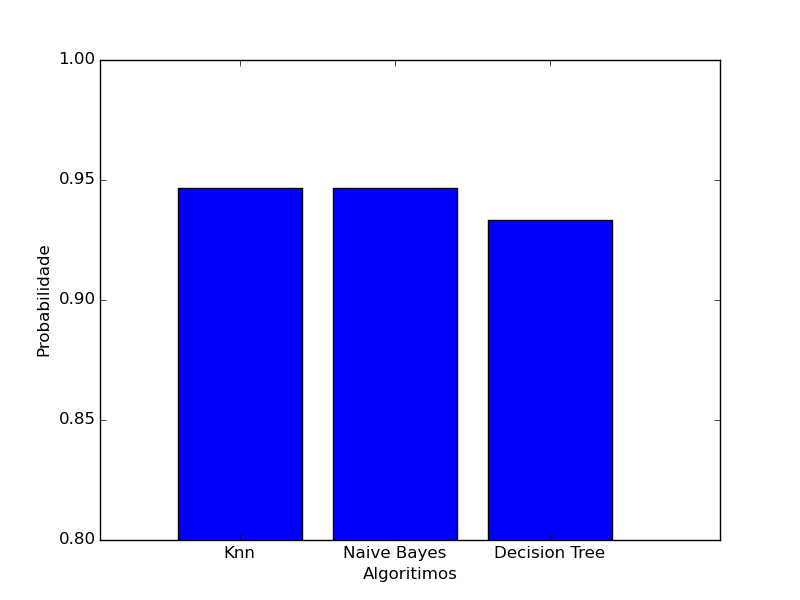
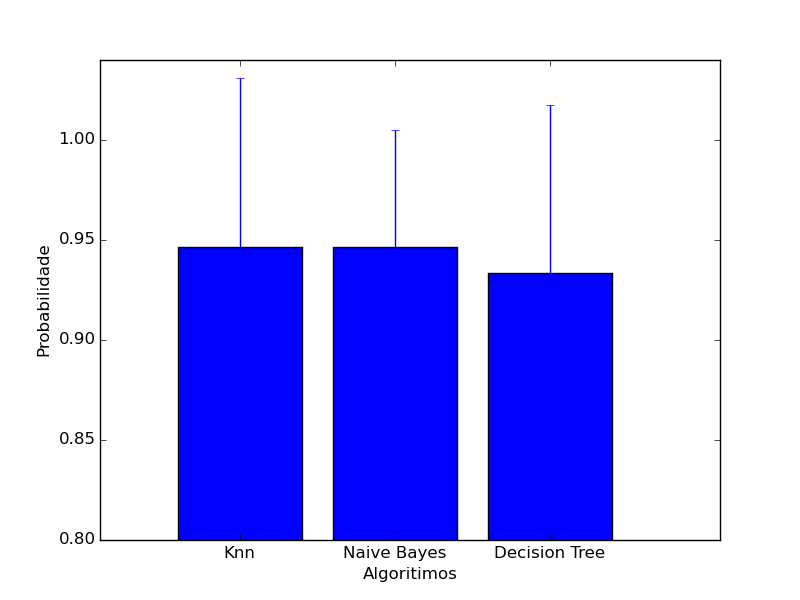
Desvios

diff --git a/iris/trabalho.py b/iris/trabalho.py
@@ -21,11 +21,14 @@ classes = iris.iloc[:,4]
 
 #usando k-fold
 kf = cross_validation.KFold(len(classes), n_folds=10)
-acuracias=[]
+acuracias_media=[]
+acuracias_std=[]
 
 #classificador knn
-knn_acu_train=[]
-knn_acu_test=[]
+knn_acu_train_media=[]
+knn_acu_train_std=[]
+knn_acu_test_media=[]
+knn_acu_test_std=[]
 ks=[3,5,7,9,11]
 
 for i in ks:
@@ -38,20 +41,23 @@ for i in ks:
     knn.fit(valores.iloc[treino_ind,:],classes.iloc[treino_ind])
     teste.append(accuracy_score(classes.iloc[teste_ind], knn.predict(valores.iloc[teste_ind,:])))
     treino.append(accuracy_score(classes.iloc[treino_ind], knn.predict(valores.iloc[treino_ind,:])))
-  knn_acu_test.append(np.mean(teste))
-  knn_acu_train.append(np.mean(treino))
+  knn_acu_test_media.append(np.mean(teste))
+  knn_acu_train_media.append(np.mean(treino))
+  knn_acu_test_std.append(np.std(teste))
+  knn_acu_train_std.append(np.std(treino))
 
 plt.clf()
-plt.scatter(ks, knn_acu_test,c="red")
-plt.plot(ks, knn_acu_test,c="red")
-plt.scatter(ks, knn_acu_train,c="blue")
-plt.plot(ks, knn_acu_train,c="blue")
+plt.scatter(ks, knn_acu_test_media,c="red")
+plt.plot(ks, knn_acu_test_media,c="red")
+plt.scatter(ks, knn_acu_train_media,c="blue")
+plt.plot(ks, knn_acu_train_media,c="blue")
 plt.ylabel('Acuracia')
 plt.xlabel('Numero de vizinhos mais proximos')
 plt.savefig('knn.png')
 
-acuracias.append(max(knn_acu_test))
-k_usado=ks[knn_acu_test.index(max(knn_acu_test))]
+acuracias_media.append(max(knn_acu_test_media))
+acuracias_std.append(max(knn_acu_test_std))
+k_usado=ks[knn_acu_test_media.index(max(knn_acu_test_media))]
 
 #classificador naive bayes
 teste=[]
@@ -62,7 +68,8 @@ for treino_ind, teste_ind in kf:
   gnb.fit(valores.iloc[treino_ind,:],classes.iloc[treino_ind])
   teste.append(accuracy_score(classes.iloc[teste_ind], gnb.predict(valores.iloc[teste_ind,:])))
 
-acuracias.append(np.mean(teste))
+acuracias_media.append(np.mean(teste))
+acuracias_std.append(np.std(teste))
 
 #classificador Decision Tree
 teste=[]
@@ -79,12 +86,12 @@ tree.export_graphviz(clf, out_file='arvore.dot')
 os.system("dot -Tps arvore.dot -o arvore.eps")
 os.system("rm arvore.dot")
 
-acuracias.append(np.mean(teste))
-
+acuracias_media.append(np.mean(teste))
+acuracias_std.append(np.std(teste))
 plt.clf()
-plt.bar([1,2,3],acuracias)
+plt.bar([1,2,3],acuracias_media,yerr=acuracias_std)
 plt.xlim(0.5, 4.5)
-plt.ylim(0.8, 1)
+plt.ylim(0.8, 1.04)
 plt.xticks([1.4,2.4,3.4],["Knn","Naive Bayes","Decision Tree"])
 plt.ylabel('Probabilidade')
 plt.xlabel('Algoritimos')
